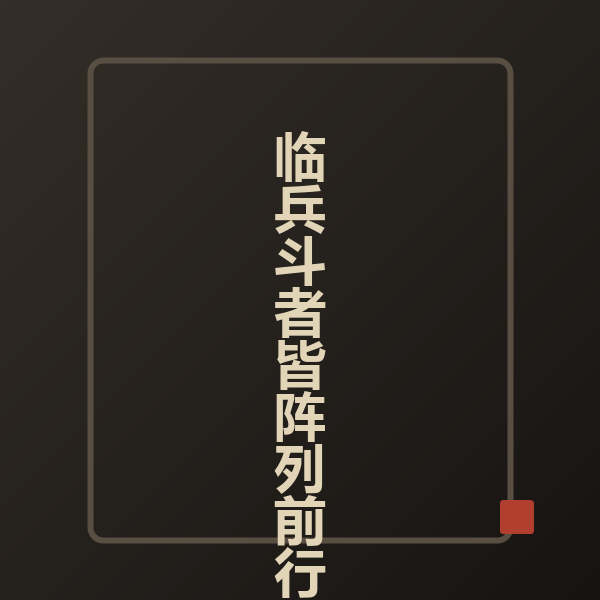
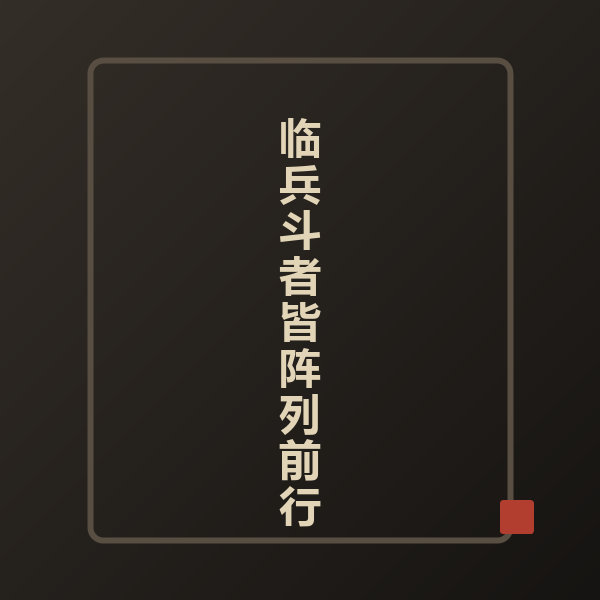
feat: 角色改名箓生，选角简介与工坊标题同步
- 选角名改为「箓生」，简介换成解箓/成箓的说法
- 工坊标题改成 字修(箓生)-汉字拆合角色，简介去掉 GitHub 链接
- 九字碑事件图重排，九字不再溢出碑框

Changed region(s): [[0.45, 0.18, 0.54, 1.0]]

diff --git a/src/main/java/zixiu/character/ZixiuCharacter.java b/src/main/java/zixiu/character/ZixiuCharacter.java
@@ -22,7 +22,7 @@ import java.util.ArrayList;
 
 public class ZixiuCharacter extends CustomPlayer {
 
-    public static final String NAME = "字修";
+    public static final String NAME = "箓生";
     public static final int STARTING_HP = 70;
     public static final int MAX_HP = 70;
     public static final int STARTING_GOLD = 99;
@@ -72,7 +72,7 @@ public class ZixiuCharacter extends CustomPlayer {
 
     @Override
     public CharSelectInfo getLoadout() {
-        return new CharSelectInfo(NAME, "一个把藏书当弹药的落魄书生。",
+        return new CharSelectInfo(NAME, "似乎很神秘的落魄书生，以一种奇怪的方式战斗，嘴里不断絮叨着「解箓」「成箓」。",
                 STARTING_HP, MAX_HP, 0, STARTING_GOLD, CARD_DRAW,
                 this, getStartingRelics(), getStartingDeck(), false);
     }

diff --git a/tools/GenInscriptionArt.java b/tools/GenInscriptionArt.java
@@ -119,11 +119,11 @@ public final class GenInscriptionArt {
         g.drawRoundRect(90, 60, 420, 480, 26, 26);
 
         g.setColor(new Color(226, 212, 182));
-        g.setFont(font(52));
+        g.setFont(font(42));
         FontMetrics metrics = g.getFontMetrics();
         for (int i = 0; i < GLYPHS.length; i++) {
             int x = 300 - metrics.stringWidth(GLYPHS[i]) / 2;
-            int y = 120 + i * 52 + metrics.getAscent();
+            int y = 108 + i * 46 + metrics.getAscent();
             g.drawString(GLYPHS[i], x, y);
         }
         g.setColor(new Color(178, 62, 48));

diff --git a/README.md b/README.md
@@ -2,7 +2,7 @@
 
 《杀戮尖塔 1》的角色 Mod：把汉字拆开、再合起来打。
 
-角色是「落魄书生」——把藏书当弹药的读书人。10 个部件（人 口 木 月 土 一 水 火 山 日）既是 0 费卡牌，也是拼字材料：
+角色是「箓生」——似乎很神秘的落魄书生，以一种奇怪的方式战斗，嘴里不断絮叨着「解箓」「成箓」。10 个部件（人 口 木 月 土 一 水 火 山 日）既是 0 费卡牌，也是拼字材料：
 
 - **合**：免费、不限次数，选两张部件牌拼成一个字。
 - **拆**：免费、不限次数，把成品牌拆回部件；原牌进消耗堆。

diff --git a/docs/relics-v1.md b/docs/relics-v1.md
@@ -1,6 +1,6 @@
 # v1 遗物与药水
 
-角色身份：**落魄书生**——把藏书当弹药的读书人。焚 = 烧书取火，润 = 护卷抄书，照 = 校勘照字。
+角色身份：**箓生**——似乎很神秘的落魄书生，解箓成箓之间打架。焚 = 烧书取火，润 = 护卷抄书，照 = 校勘照字。
 
 ## 遗物（7）
 
